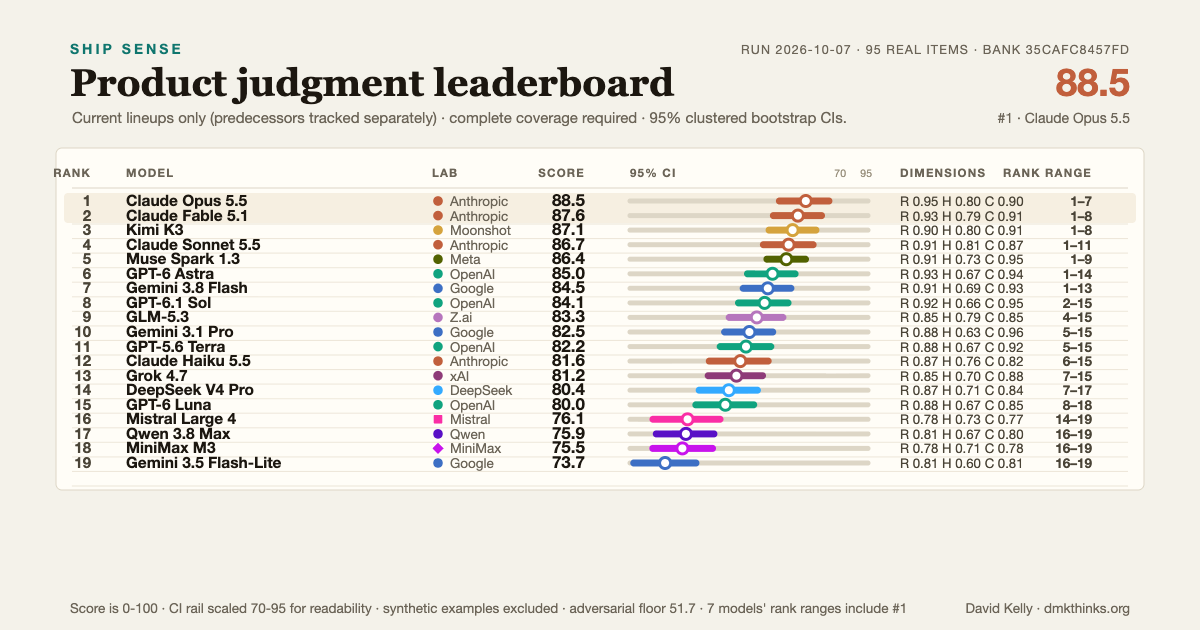
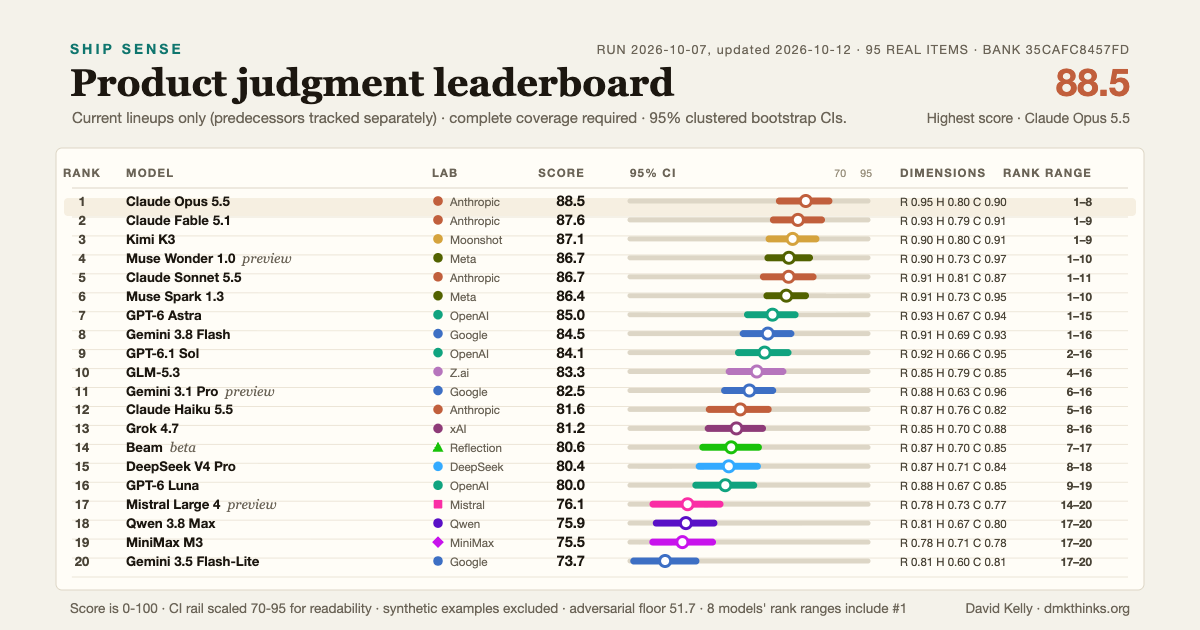
Sync the Ship Sense board: add Muse Wonder 1.0 and Beam, drop Terra

diff --git a/src/data/ship-sense-snapshot.ts b/src/data/ship-sense-snapshot.ts
@@ -12,8 +12,8 @@ export const SHIP_SENSE_RUN: ShipSenseRunMeta = {
   "runId": "2026-10-07-v4.4",
   "runDate": "2026-10-07",
   "bankItems": 95,
-  "modelCount": 25,
-  "replacedCount": 1,
+  "modelCount": 27,
+  "replacedCount": 2,
   "floor": 51.7,
   "floorKind": "adversarial",
   "floorRows": [
@@ -33,8 +33,8 @@ export const SHIP_SENSE_RUN: ShipSenseRunMeta = {
     }
   ],
   "decisiveRule": "bh",
-  "decisivePairs": 195,
-  "totalPairs": 300,
+  "decisivePairs": 225,
+  "totalPairs": 351,
   "scoringDates": [
     {
       "date": "2026-10-07",
@@ -49,9 +49,9 @@ export const SHIP_SENSE_RUN: ShipSenseRunMeta = {
         "GPT-6.1 Sol",
         "GLM-5.3",
         "Gemini 3.1 Pro",
-        "GPT-5.6 Terra",
         "Claude Haiku 5.5",
         "Grok 4.7",
+        "Beam",
         "DeepSeek V4 Pro",
         "GPT-6 Luna",
         "Mistral Large 4",
@@ -63,7 +63,14 @@ export const SHIP_SENSE_RUN: ShipSenseRunMeta = {
         "Claude Sonnet 5",
         "GPT-5.6 Luna",
         "Claude Haiku 4.5",
+        "GPT-5.6 Terra",
         "Mistral Medium 3.5"
+      ]
+    },
+    {
+      "date": "2026-10-12",
+      "labels": [
+        "Muse Wonder 1.0"
       ]
     }
   ]
@@ -76,8 +83,8 @@ export const SHIP_SENSE_LINEUP: ShipSenseModelRow[] = [
     "provider": "anthropic",
     "pos": 1,
     "rankLo": 1,
-    "rankHi": 7,
-    "pFirst": 0.6576,
+    "rankHi": 8,
+    "pFirst": 0.6394,
     "testedOn": "v4.4",
     "score": 88.5,
     "lo": 85.7,
@@ -94,8 +101,8 @@ export const SHIP_SENSE_LINEUP: ShipSenseModelRow[] = [
     "provider": "anthropic",
     "pos": 2,
     "rankLo": 1,
-    "rankHi": 8,
-    "pFirst": 0.2048,
+    "rankHi": 9,
+    "pFirst": 0.1935,
     "testedOn": "v4.4",
     "score": 87.6,
     "lo": 85.1,
@@ -112,8 +119,8 @@ export const SHIP_SENSE_LINEUP: ShipSenseModelRow[] = [
     "provider": "moonshot",
     "pos": 3,
     "rankLo": 1,
-    "rankHi": 8,
-    "pFirst": 0.1116,
+    "rankHi": 9,
+    "pFirst": 0.0975,
     "testedOn": "v4.4",
     "score": 87.1,
     "lo": 84.6,
@@ -125,13 +132,31 @@ export const SHIP_SENSE_LINEUP: ShipSenseModelRow[] = [
     "priceOut": 15
   },
   {
+    "name": "muse-wonder-1.0",
+    "label": "Muse Wonder 1.0",
+    "provider": "meta",
+    "pos": 4,
+    "rankLo": 1,
+    "rankHi": 10,
+    "pFirst": 0.0481,
+    "testedOn": "v4.4",
+    "score": 86.7,
+    "lo": 84.5,
+    "hi": 88.9,
+    "restraint": 0.9,
+    "honesty": 0.73,
+    "conviction": 0.97,
+    "priceIn": 4,
+    "priceOut": 20
+  },
+  {
     "name": "claude-sonnet-5-5",
     "label": "Claude Sonnet 5.5",
     "provider": "anthropic",
-    "pos": 4,
+    "pos": 5,
     "rankLo": 1,
     "rankHi": 11,
-    "pFirst": 0.0143,
+    "pFirst": 0.0136,
     "testedOn": "v4.4",
     "score": 86.7,
     "lo": 84,
@@ -146,10 +171,10 @@ export const SHIP_SENSE_LINEUP: ShipSenseModelRow[] = [
     "name": "muse-spark-1.3",
     "label": "Muse Spark 1.3",
     "provider": "meta",
-    "pos": 5,
+    "pos": 6,
     "rankLo": 1,
-    "rankHi": 9,
-    "pFirst": 0.0115,
+    "rankHi": 10,
+    "pFirst": 0.0078,
     "testedOn": "v4.4",
     "score": 86.4,
     "lo": 84.4,
@@ -164,9 +189,9 @@ export const SHIP_SENSE_LINEUP: ShipSenseModelRow[] = [
     "name": "gpt-6-astra",
     "label": "GPT-6 Astra",
     "provider": "openai",
-    "pos": 6,
+    "pos": 7,
     "rankLo": 1,
-    "rankHi": 14,
+    "rankHi": 15,
     "pFirst": 0.0001,
     "testedOn": "v4.4",
     "score": 85,
@@ -182,9 +207,9 @@ export const SHIP_SENSE_LINEUP: ShipSenseModelRow[] = [
     "name": "gemini-3.8-flash",
     "label": "Gemini 3.8 Flash",
     "provider": "google",
-    "pos": 7,
+    "pos": 8,
     "rankLo": 1,
-    "rankHi": 13,
+    "rankHi": 16,
     "pFirst": 0,
     "testedOn": "v4.4",
     "score": 84.5,
@@ -203,9 +228,9 @@ export const SHIP_SENSE_LINEUP: ShipSenseModelRow[] = [
     "name": "gpt-6.1-sol",
     "label": "GPT-6.1 Sol",
     "provider": "openai",
-    "pos": 8,
+    "pos": 9,
     "rankLo": 2,
-    "rankHi": 15,
+    "rankHi": 16,
     "pFirst": 0,
     "testedOn": "v4.4",
     "score": 84.1,
@@ -221,9 +246,9 @@ export const SHIP_SENSE_LINEUP: ShipSenseModelRow[] = [
     "name": "glm-5.3",
     "label": "GLM-5.3",
     "provider": "zai",
-    "pos": 9,
+    "pos": 10,
     "rankLo": 4,
-    "rankHi": 15,
+    "rankHi": 16,
     "pFirst": 0,
     "testedOn": "v4.4",
     "score": 83.3,
@@ -239,9 +264,9 @@ export const SHIP_SENSE_LINEUP: ShipSenseModelRow[] = [
     "name": "gemini-3.1-pro",
     "label": "Gemini 3.1 Pro",
     "provider": "google",
-    "pos": 10,
-    "rankLo": 5,
-    "rankHi": 15,
+    "pos": 11,
+    "rankLo": 6,
+    "rankHi": 16,
     "pFirst": 0,
     "testedOn": "v4.4",
     "score": 82.5,
@@ -254,30 +279,12 @@ export const SHIP_SENSE_LINEUP: ShipSenseModelRow[] = [
     "priceOut": 12
   },
   {
-    "name": "gpt-5.6-terra",
-    "label": "GPT-5.6 Terra",
-    "provider": "openai",
-    "pos": 11,
-    "rankLo": 5,
-    "rankHi": 15,
-    "pFirst": 0,
-    "testedOn": "v4.4",
-    "score": 82.2,
-    "lo": 79.5,
-    "hi": 84.8,
-    "restraint": 0.88,
-    "honesty": 0.67,
-    "conviction": 0.92,
-    "priceIn": 2,
-    "priceOut": 12
-  },
-  {
     "name": "claude-haiku-5-5",
     "label": "Claude Haiku 5.5",
     "provider": "anthropic",
     "pos": 12,
-    "rankLo": 6,
-    "rankHi": 15,
+    "rankLo": 5,
+    "rankHi": 16,
     "pFirst": 0,
     "testedOn": "v4.4",
     "score": 81.6,
@@ -294,8 +301,8 @@ export const SHIP_SENSE_LINEUP: ShipSenseModelRow[] = [
     "label": "Grok 4.7",
     "provider": "xai",
     "pos": 13,
-    "rankLo": 7,
-    "rankHi": 15,
+    "rankLo": 8,
+    "rankHi": 16,
     "pFirst": 0,
     "testedOn": "v4.4",
     "score": 81.2,
@@ -308,12 +315,30 @@ export const SHIP_SENSE_LINEUP: ShipSenseModelRow[] = [
     "priceOut": 6
   },
   {
-    "name": "deepseek-v4-pro",
-    "label": "DeepSeek V4 Pro",
-    "provider": "deepseek",
+    "name": "beam-501b-a23b",
+    "label": "Beam",
+    "provider": "reflection",
     "pos": 14,
     "rankLo": 7,
     "rankHi": 17,
+    "pFirst": 0,
+    "testedOn": "v4.4",
+    "score": 80.6,
+    "lo": 77.6,
+    "hi": 83.5,
+    "restraint": 0.87,
+    "honesty": 0.7,
+    "conviction": 0.85,
+    "priceIn": null,
+    "priceOut": null
+  },
+  {
+    "name": "deepseek-v4-pro",
+    "label": "DeepSeek V4 Pro",
+    "provider": "deepseek",
+    "pos": 15,
+    "rankLo": 8,
+    "rankHi": 18,
     "pFirst": 0,
     "testedOn": "v4.4",
     "score": 80.4,
@@ -329,9 +354,9 @@ export const SHIP_SENSE_LINEUP: ShipSenseModelRow[] = [
     "name": "gpt-6-luna",
     "label": "GPT-6 Luna",
     "provider": "openai",
-    "pos": 15,
-    "rankLo": 8,
-    "rankHi": 18,
+    "pos": 16,
+    "rankLo": 9,
+    "rankHi": 19,
     "pFirst": 0,
     "testedOn": "v4.4",
     "score": 80,
@@ -347,9 +372,9 @@ export const SHIP_SENSE_LINEUP: ShipSenseModelRow[] = [
     "name": "mistral-large-4",
     "label": "Mistral Large 4",
     "provider": "mistral",
-    "pos": 16,
+    "pos": 17,
     "rankLo": 14,
-    "rankHi": 19,
+    "rankHi": 20,
     "pFirst": 0,
     "testedOn": "v4.4",
     "score": 76.1,
@@ -365,9 +390,9 @@ export const SHIP_SENSE_LINEUP: ShipSenseModelRow[] = [
     "name": "qwen3.8-max",
     "label": "Qwen 3.8 Max",
     "provider": "qwen",
-    "pos": 17,
-    "rankLo": 16,
-    "rankHi": 19,
+    "pos": 18,
+    "rankLo": 17,
+    "rankHi": 20,
     "pFirst": 0,
     "testedOn": "v4.4",
     "score": 75.9,
@@ -383,9 +408,9 @@ export const SHIP_SENSE_LINEUP: ShipSenseModelRow[] = [
     "name": "minimax-m3",
     "label": "MiniMax M3",
     "provider": "minimax",
-    "pos": 18,
-    "rankLo": 16,
-    "rankHi": 19,
+    "pos": 19,
+    "rankLo": 17,
+    "rankHi": 20,
     "pFirst": 0,
     "testedOn": "v4.4",
     "score": 75.5,
@@ -401,9 +426,9 @@ export const SHIP_SENSE_LINEUP: ShipSenseModelRow[] = [
     "name": "gemini-3.5-flash-lite",
     "label": "Gemini 3.5 Flash-Lite",
     "provider": "google",
-    "pos": 19,
-    "rankLo": 16,
-    "rankHi": 19,
+    "pos": 20,
+    "rankLo": 17,
+    "rankHi": 20,
     "pFirst": 0,
     "testedOn": "v4.4",
     "score": 73.7,

diff --git a/src/data/ship-sense-teaser.ts b/src/data/ship-sense-teaser.ts
@@ -21,6 +21,6 @@ export const SHIP_SENSE_TEASER: ShipSenseTeaserRow[] = [
 export const SHIP_SENSE_TEASER_RUN = {
   "version": "v4.4",
   "bankItems": 95,
-  "modelCount": 25,
-  "currentCount": 19
+  "modelCount": 27,
+  "currentCount": 20
 };
